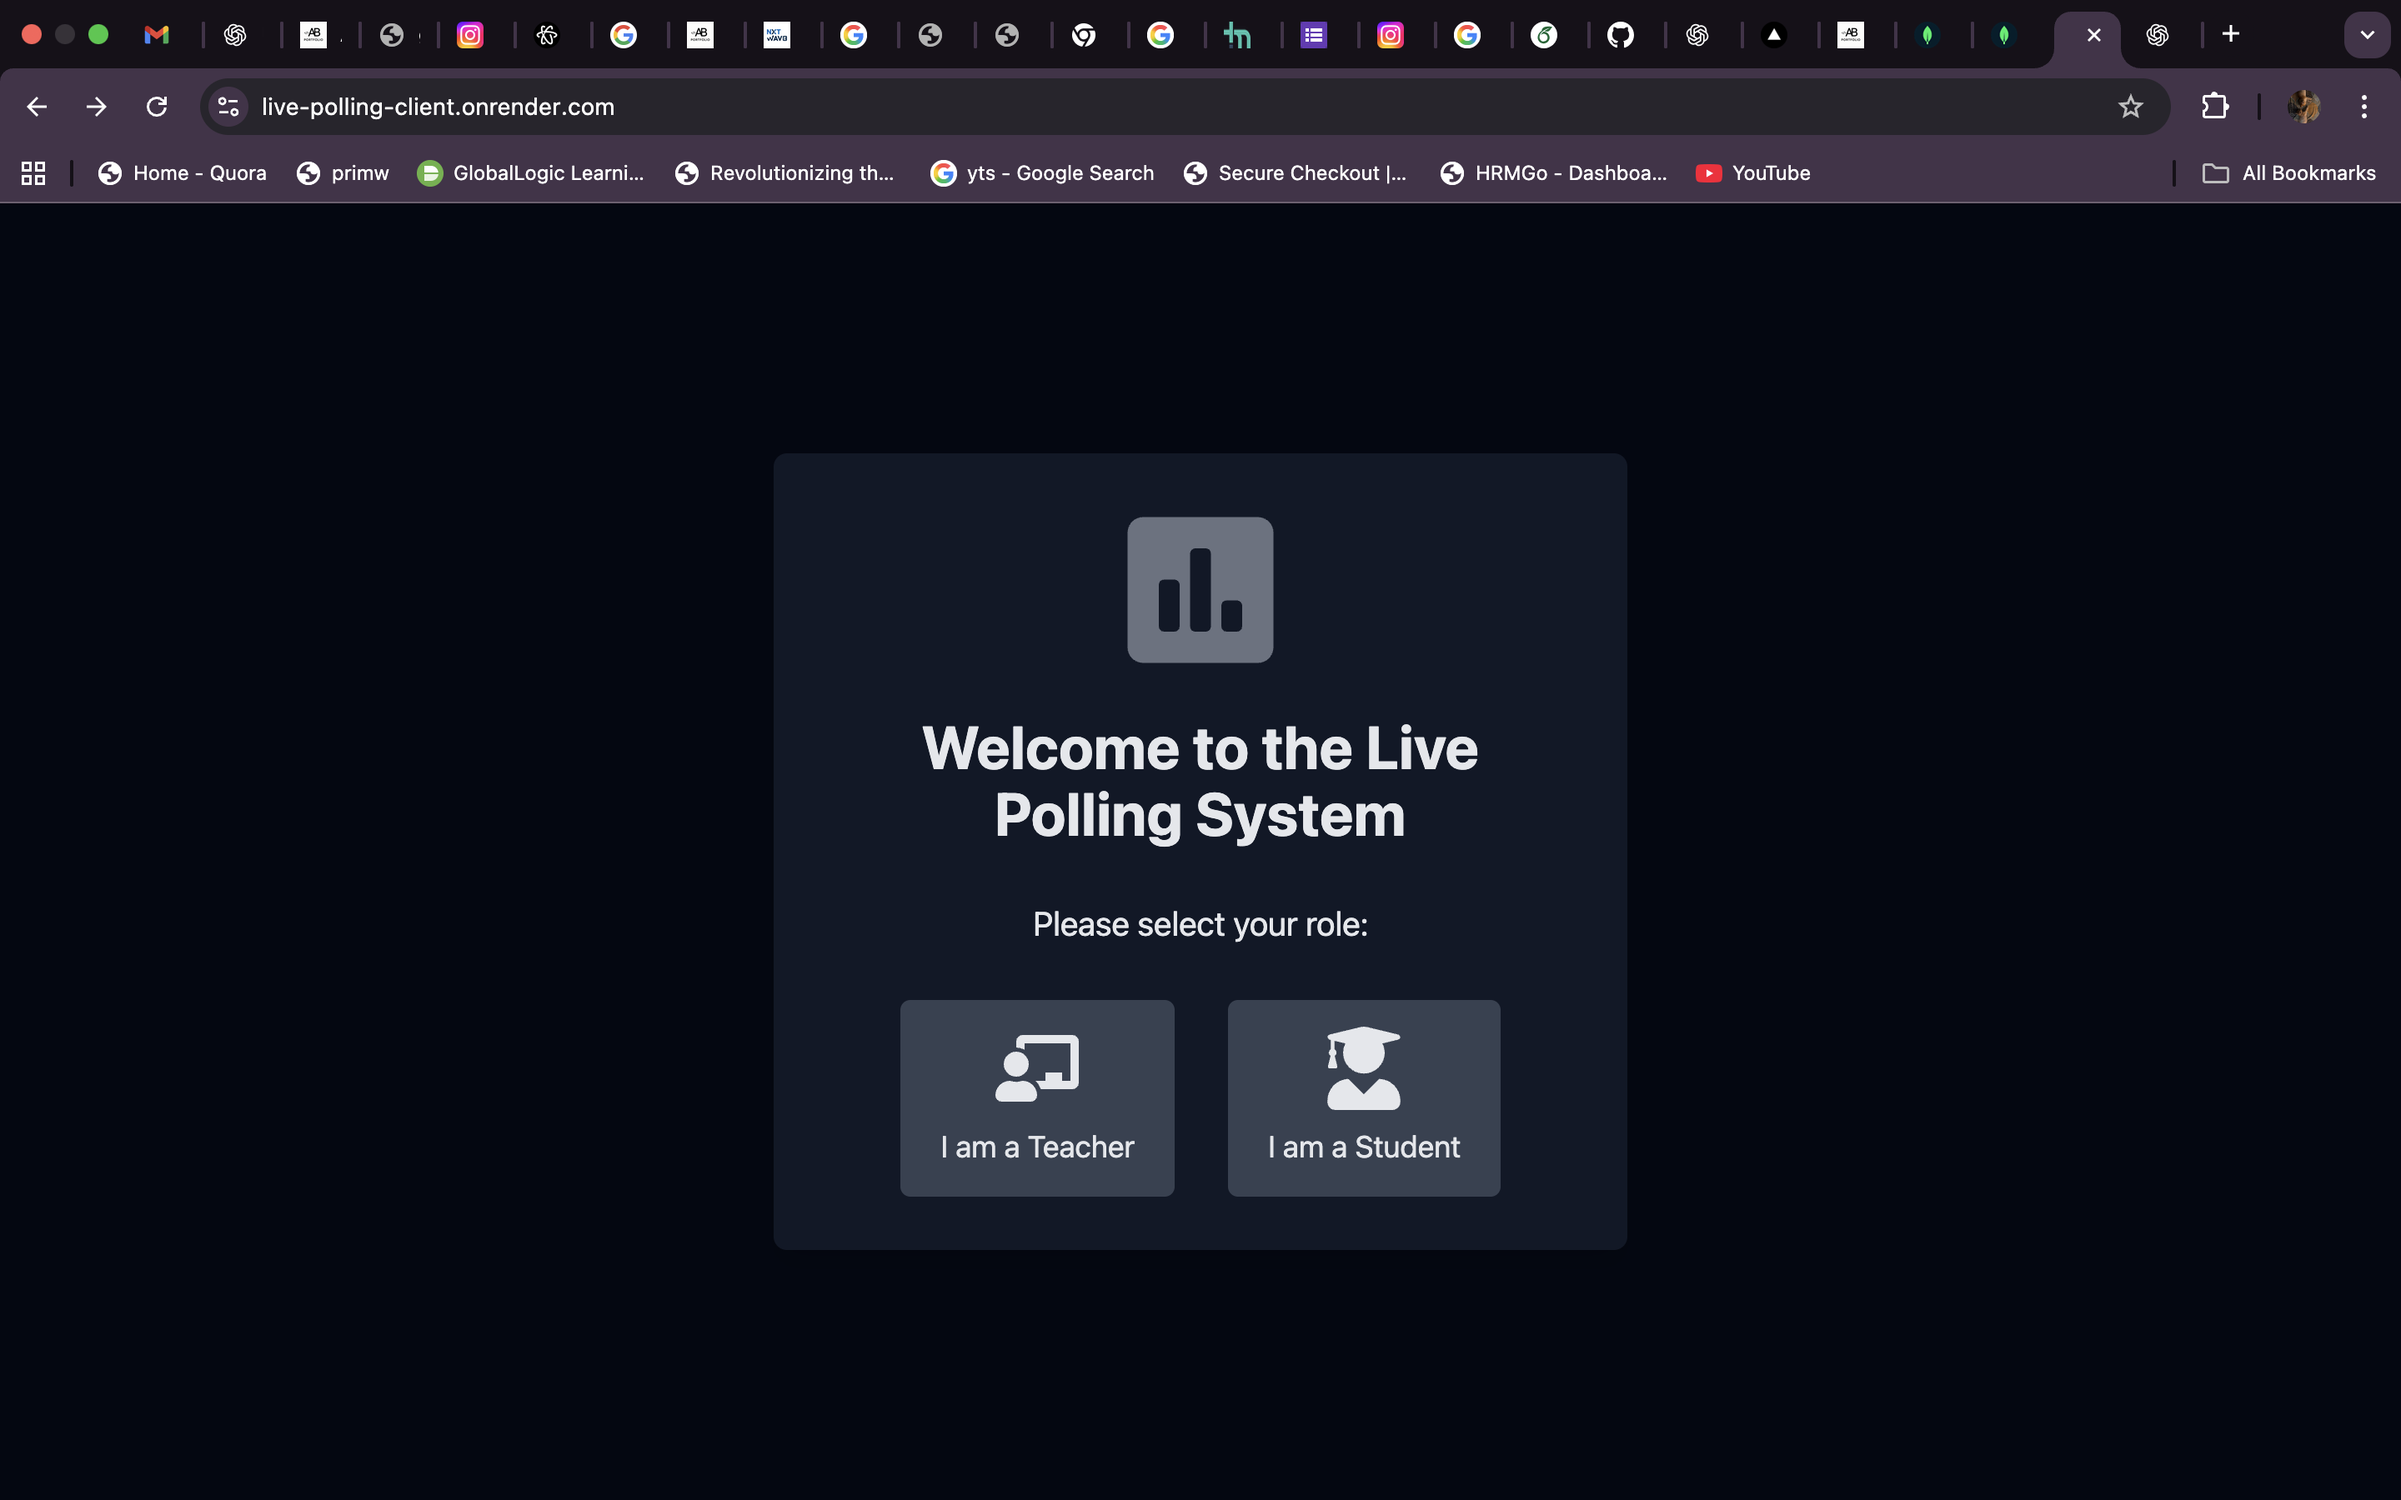
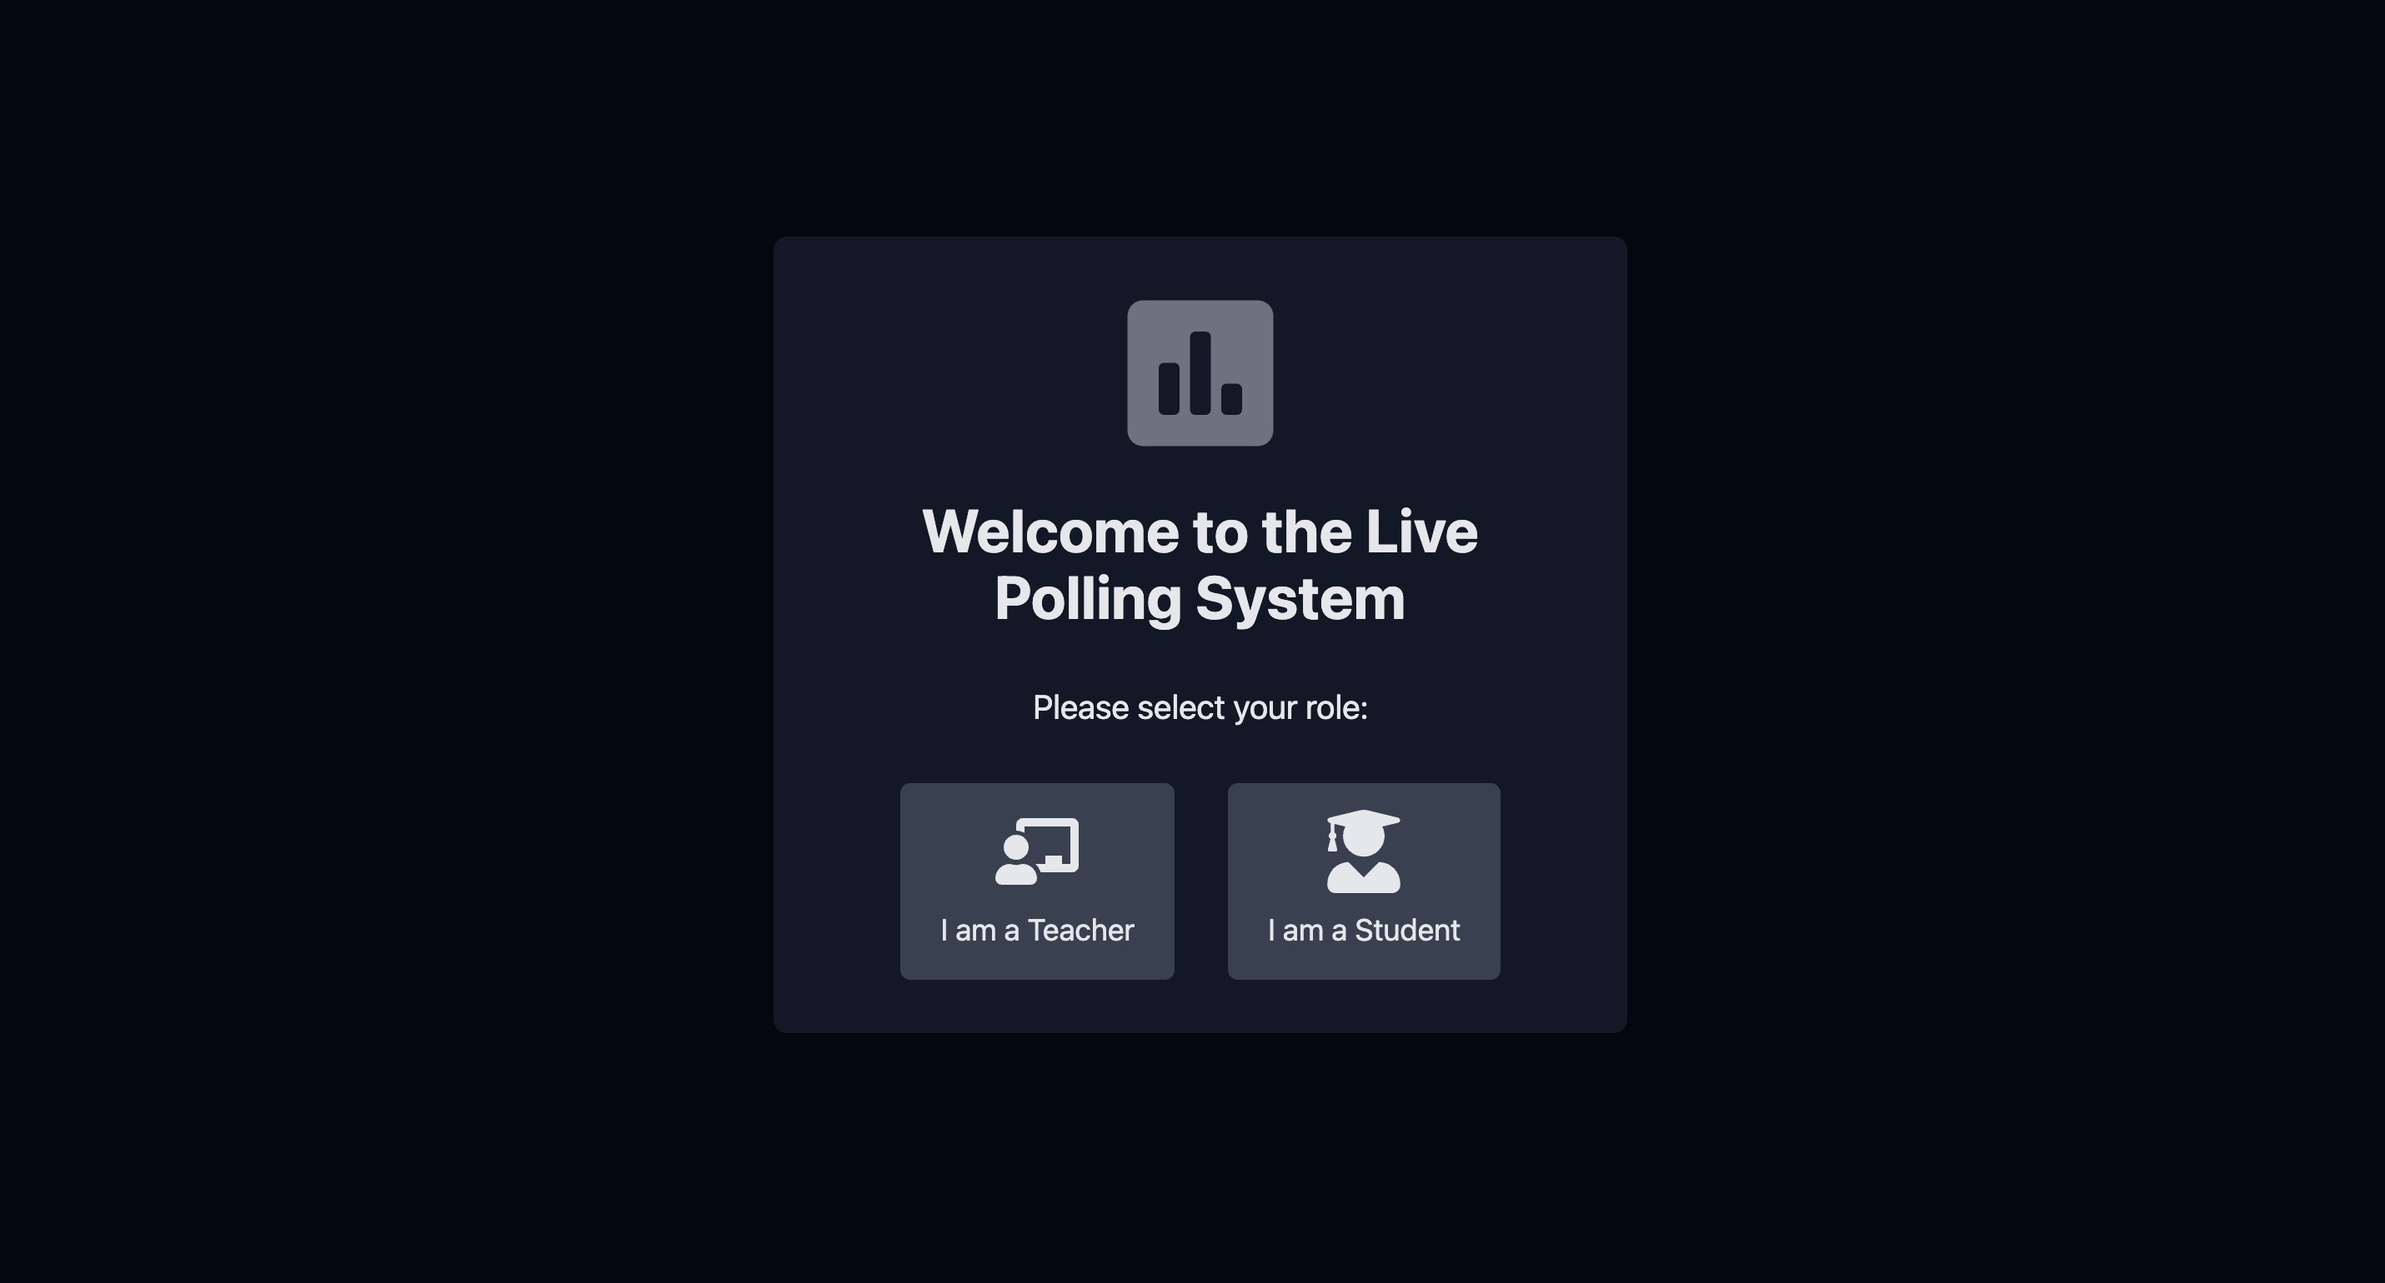
feat: updated Polling Client project details and image

Changed region(s): [[0.0, 0.0, 1.0, 0.1558], [0.3733, 0.5922, 0.6533, 0.8104], [0.3733, 0.2182, 0.6222, 0.561]]

diff --git a/src/components/ProjectsSection.jsx b/src/components/ProjectsSection.jsx
@@ -40,21 +40,23 @@ const projects = [
   },
   {
     id: 3,
-    title: "E-commerce Platform",
+    title: "Polling Client",
     description:
-      "Full-featured e-commerce platform with user authentication and payment processing.",
+      "A real-time polling application for teachers and students built with MERN stack and TypeScript. Teachers can create polls, while students can participate and view live results instantly.",
     features: [
-      "User authentication and authorization",
-      "Product catalog and cart system",
-      "Stripe payment integration",
-      "Admin dashboard for product management",
+      "Role-based system for teachers and students",
+      "Create and participate in polls",
+      "Real-time updates with WebSockets",
+      "Secure authentication and authorization",
+      "Responsive UI with TypeScript + TailwindCSS",
     ],
     image: "/projects/project3.png",
-    tags: ["React", "Node.js", "Stripe"],
-    demoUrl: "#",
-    githubUrl: "#",
-  },
+    tags: ["React", "Node.js", "Express", "MongoDB", "TypeScript", "Socket.IO"],
+    demoUrl: "https://live-polling-client.onrender.com/", 
+    githubUrl: "https://github.com/MdAyanBadar/polling"
+  }
 ];
+
 
 export const ProjectsSection = () => {
   const [selectedProject, setSelectedProject] = useState(null);
